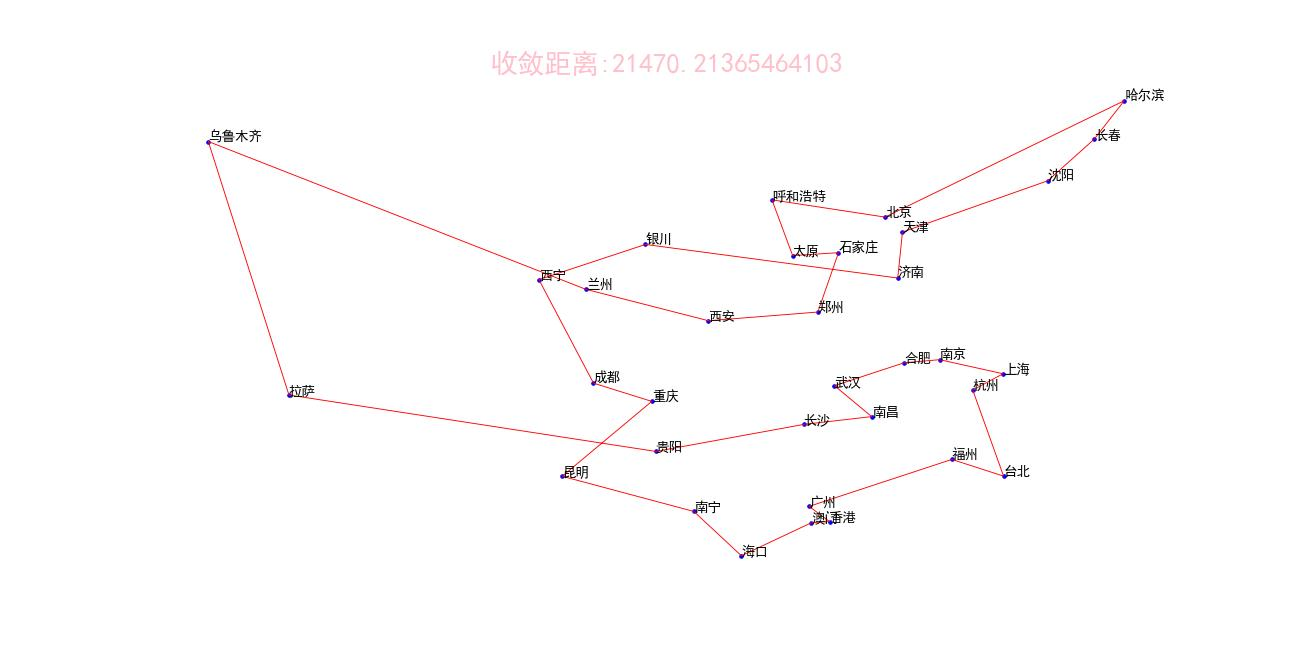
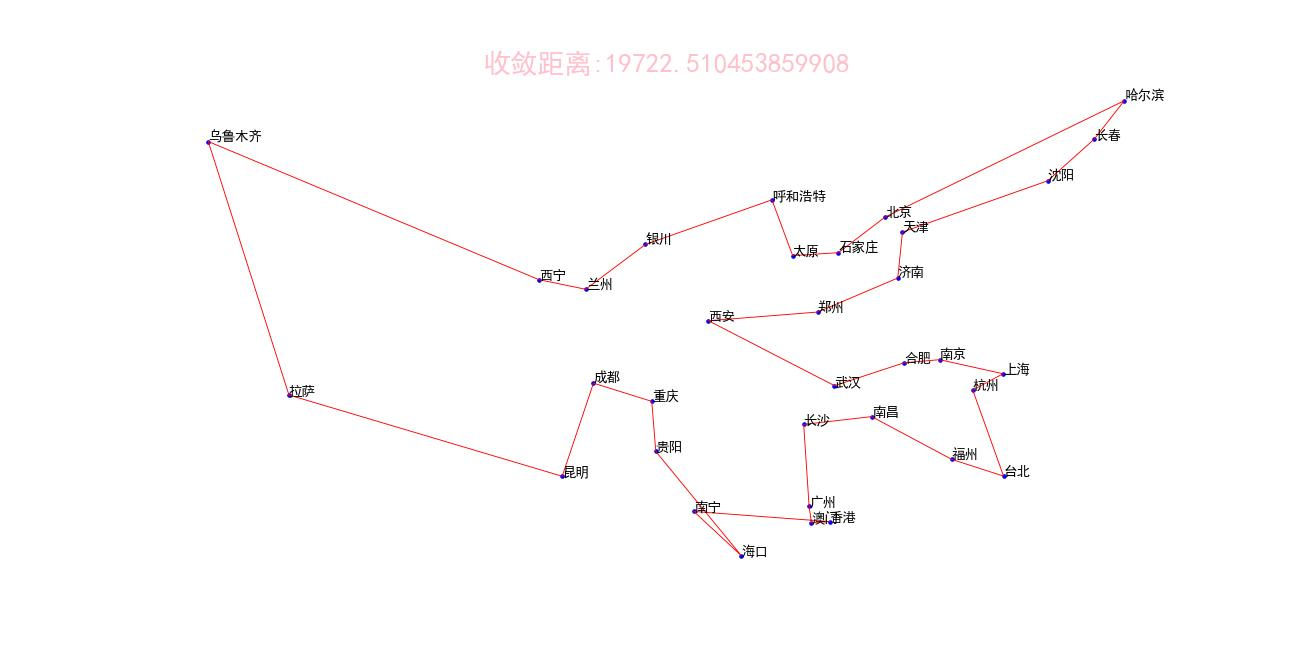
添加了分析函数,找最好的参数

diff --git a/analysis.py b/analysis.py
@@ -1,0 +1,74 @@
+from TSP import *
+from Draw import *
+
+#分析pop_size和收敛dist的关系
+#固定其他参数,ga_num=500
+#求不同种群大小下的收敛距离,每个求5次,取平均值画图
+def analysisPop():
+    # pop=[n for n in range(20,120,10)]#20~110
+    pop=[n for n in range(65,76,1)] #得到最佳种群大小:73
+    constringency=[]
+    for i in pop:
+        tsp=TSP(pop_size=i)
+        tsp.init()
+        temp=[]
+        for j in range(5):
+            dis=tsp.evolution(500)[0][-1]#最后一次的最短距离
+            temp.append(dis)
+        constringency.append(sum(temp)/len(temp))#五次求平均值
+    #用种群大小和平均收敛距离画图
+    plt.rcParams['font.sans-serif'] = ['SimHei']
+    plt.plot(pop,constringency,color='blue')
+    plt.axis("auto")
+    plt.xlabel("种群大小",color='green')
+    plt.ylabel("平均收敛距离",color='green')
+    plt.title("种群大小和收敛距离关系图",color="red")
+    plt.show()
+
+#确定pop_size=73
+# 分析Crate和收敛dist的关系
+def analysisCrate():
+    # crate=[n/10 for n in range(3,10,1)]  #0.3-0.9
+    crate=[n/100 for n in range(45,56,1)] #得到最佳交叉率:0.54
+    csgc=[]
+    for i in crate:
+        tsp=TSP(c_rate=i,pop_size=73)
+        tsp.init()
+        temp=[]
+        for j in range(5):
+            dis=tsp.evolution(500)[0][-1]
+            temp.append(dis)
+        csgc.append(sum(temp)/len(temp))
+    plt.rcParams['font.sans-serif'] = ['SimHei']
+    plt.plot(crate,csgc,color='blue')
+    plt.xlabel("交叉率",color='green')
+    plt.ylabel("平均收敛距离",color='green')
+    plt.title("交叉率和收敛距离关系图",color="red")
+    plt.show()
+
+#pop_size=73,同时c_rate=0.54的条件下,找最佳的变异率
+#分析M_rate和收敛距离的关系
+def analysisMrate():
+    # mrate=[n/100 for n in range(1,10,1)]  #0.01-0.09
+    mrate=[n/1000 for n in range(56,65,1)]#得到最佳变异率:0.06
+    csgc=[]
+    for i in mrate:
+        tsp=TSP(c_rate=0.54,m_rate=i,pop_size=73)
+        tsp.init()
+        temp=[]
+        for j in range(5):
+            dis=tsp.evolution(500)[0][-1]
+            temp.append(dis)
+        csgc.append(sum(temp)/len(temp))
+    plt.rcParams['font.sans-serif'] = ['SimHei']
+    plt.plot(mrate,csgc,color='blue')
+    plt.xlabel("交叉率",color='green')
+    plt.ylabel("平均收敛距离",color='green')
+    plt.title("交叉率和收敛距离关系图",color="red")
+    plt.show()
+    pass
+
+if __name__=="__main__":
+    # analysisPop()
+    # analysisCrate()
+    analysisMrate()

diff --git a/TSP.py b/TSP.py
@@ -103,11 +103,14 @@ class TSP():
                 pop[i]=pi
         return pop
     # TODO 适应度比例算子
-    # def select_pop2(self, pop):#换选择算子
-    #     probility = self.fitness / sum(self.fitness)
-    #     idx = np.random.choice(np.arange(self.pop_size), size=self.pop_size, replace=True, p=probility)
-    #     n_pop = pop[idx, :]
-    #     return n_pop
+    def select_pop2(self,pop:list):#换选择算子
+        probility=[]
+        for i in range(len(self.fitness)):
+            probility.append(self.fitness[i] / sum(self.fitness))
+        print(probility)
+        print(choice(self.pop_size,probility))
+        
+
     #主程序,迭代进化种群
     def evolution(self,ga_num:int=300):#尽量多个模块,多用参数和返回值,不要把功能都堆在一个函数中
         '''ga_num:最大迭代次数,默认为300  
@@ -133,7 +136,7 @@ class TSP():
                 self.best_gen=local_best_gen
             else:
                 self.pop[worst_f_index]=self.best_gen#如果没有更优解,就把当前best当成全局最优,并用最优替换最差的
-            #主遗传程序:选择种群-计算适应度-交叉-变异
+            #主遗传程序,随机交叉,变异:选择种群-计算适应度-交叉-变异
             self.pop=self.selectPop(self.pop)
             self.fitness=self.getFitness(self.pop)
             for j in range(self.pop_size):

diff --git a/Func.py b/Func.py
@@ -1,5 +1,6 @@
 from copy import deepcopy
 from os import system
+from random import random
 
 def median(fitness:list):
     '''求中位数'''
@@ -14,7 +15,19 @@ def picsTogif():
     system('cd ./pics/ && ffmpeg -r 5 -i %d.png -vf palettegen palette.png && ffmpeg -y -r 5 -i %d.png -i palette.png -lavfi paletteuse output.gif')
     system('cd ./pics/ && del *.png palette.png')
 
-def writeFile(context:list,filepath:str='./data/gen.ini'):
+def writeFile(context:list,filepath:str='./data/gen.ini',mode:str='w'):
     '''写文件:保存数据'''
-    with open(filepath,'w') as f:
+    with open(filepath,mode) as f:
         f.write(str(context))
+        f.write('\n')
+#TODO choice()
+def choice(pop_size:int,probility:list):
+    '''实现np.random.choice()  
+    pop_size:种群大小,也是目标size
+    probility:概率列表
+    '''
+    chospop=[]
+    for i in range(pop_size):
+        if random()<=probility[i]:
+            chospop.append(i)
+    return chospop

diff --git a/main.py b/main.py
@@ -16,17 +16,20 @@ def runtime(f):
 def main():
     tsp=TSP()
     tsp.init()
-    dis_list,pop_list=tsp.evolution(200)
-    print("正在处理图片...")
-    drawLine(dis_list)
-    popDraw(pop_list,dis_list,200)
-    lastDraw(pop_list[-1],dis_list[-1])
-    picsTogif()
-    print("正在保存数据...")
-    writeFile(dis_list,r'./data/list.ini')
-    writeFile(pop_list,r'./data/pop.ini')
-    print("执行完毕")
-
+    tsp.select_pop2(tsp.pop)
+    pass
+    # tsp=TSP(0.54,0.06,73)#最三个最佳的参数
+    # tsp.init()
+    # dis_list,pop_list=tsp.evolution(500)
+    # print("处理图片")
+    # drawLine(dis_list)
+    # lastDraw(pop_list[-1],dis_list[-1])
+    # popDraw(pop_list,dis_list,200)
+    # picsTogif()
+    # print("保存数据")
+    # writeFile(dis_list,r'./data/list.ini')
+    # writeFile(pop_list,r'./data/pop.ini')
+    # print("执行完毕")
 
 if __name__=="__main__":
     main()
